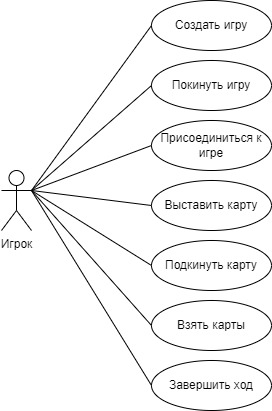
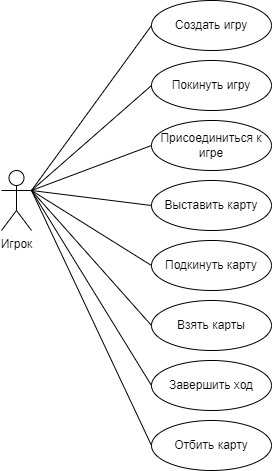
Описание прецедентов

diff --git a/lab1.md b/lab1.md
@@ -1,4 +1,53 @@
 # Лабораторная работа №1
 ## Игра в дурака
 
-![alt text](./images/UseCase.jpg)
+### Диаграмма вариантов использования
+![alt text](<./images/UseCase.jpg>)
+
+### Прецедент "Создать игру"
+**Основной исполнитель**: Игрок
+**Описание**: Игрок создает новую комнату для игры
+**Предусловие**: Игрок подключен к системе и указал свое имя
+**Постусловие**: Новая игра создана, игрок ожидает подключения другого игрока
+
+### Прецедент "Покинуть игру"
+**Основной исполнитель**: Игрок
+**Описание**: Игрок досрочно покидает текущую игру
+**Предусловие**: Игрок находится в комнате для игры
+**Постусловие**: Игрок покидает комнату
+
+### Прецедент "Присоединиться к игре"
+**Основной исполнитель**: Игрок
+**Описание**: Игрок присоединяется к существующей игре
+**Предусловие**: Игрок подключен к системе и указал свое имя
+**Постусловие**: Игрок присоединен к игре, ожидает начала игры 
+
+### Прецедент "Выставить карту"
+**Основной исполнитель**: Игрок
+**Описание**:  Игрок выставляет карту на стол, начиная ход
+**Предусловие**: Игрок присутствует в комнате для игры, игра запущена, ход предоставлен игроку и не выброшено ни одной карты
+**Постусловие**: Игрок сделал первый ход, ожидает ответного хода от другого игрока
+
+### Прецедент "Подкинуть карту"
+**Основной исполнитель**: Игрок
+**Описание**:  Игрок подкидывает карту, значение которой уже выложено на игровом столе
+**Предусловие**: Игрок присутствует в комнате для игры, игра запущена, ход предоставлен игроку, выброшена хотя бы одна карта
+**Постусловие**: Игрок подкинул карту отбивающемуся
+
+### Прецедент "Взять карты"
+**Основной исполнитель**: Игрок
+**Описание**:  Игрок забирает карты со стола, не побив их
+**Предусловие**: Игрок присутствует в комнате для игры, игра запущена, ход предоставлен другому игроку, выброшена хотя бы одна карта
+**Постусловие**: Игрок забрал карты, ход передается следующему игроку
+
+### Прецедент "Завершить ход"
+**Основной исполнитель**: Игрок
+**Описание**:  Игрок завершает свой ход, передавая ход следующему игроку
+**Предусловие**: Игрок присутствует в комнате для игры, игра запущена, ход предоставлен игроку, все карты побиты
+**Постусловие**: Ход игрока завершен. Ход передан следующему игроку
+
+### Прецедент "Отбить карту"
+**Основной исполнитель**: Игрок
+**Описание**:  Игрок отбивает карту нападающего
+**Предусловие**: Игрок присутствует в комнате для игры, игра запущена, ход предоставлен другому игроку
+**Постусловие**: Игрок успешно отбил карту, ожидание дейст
